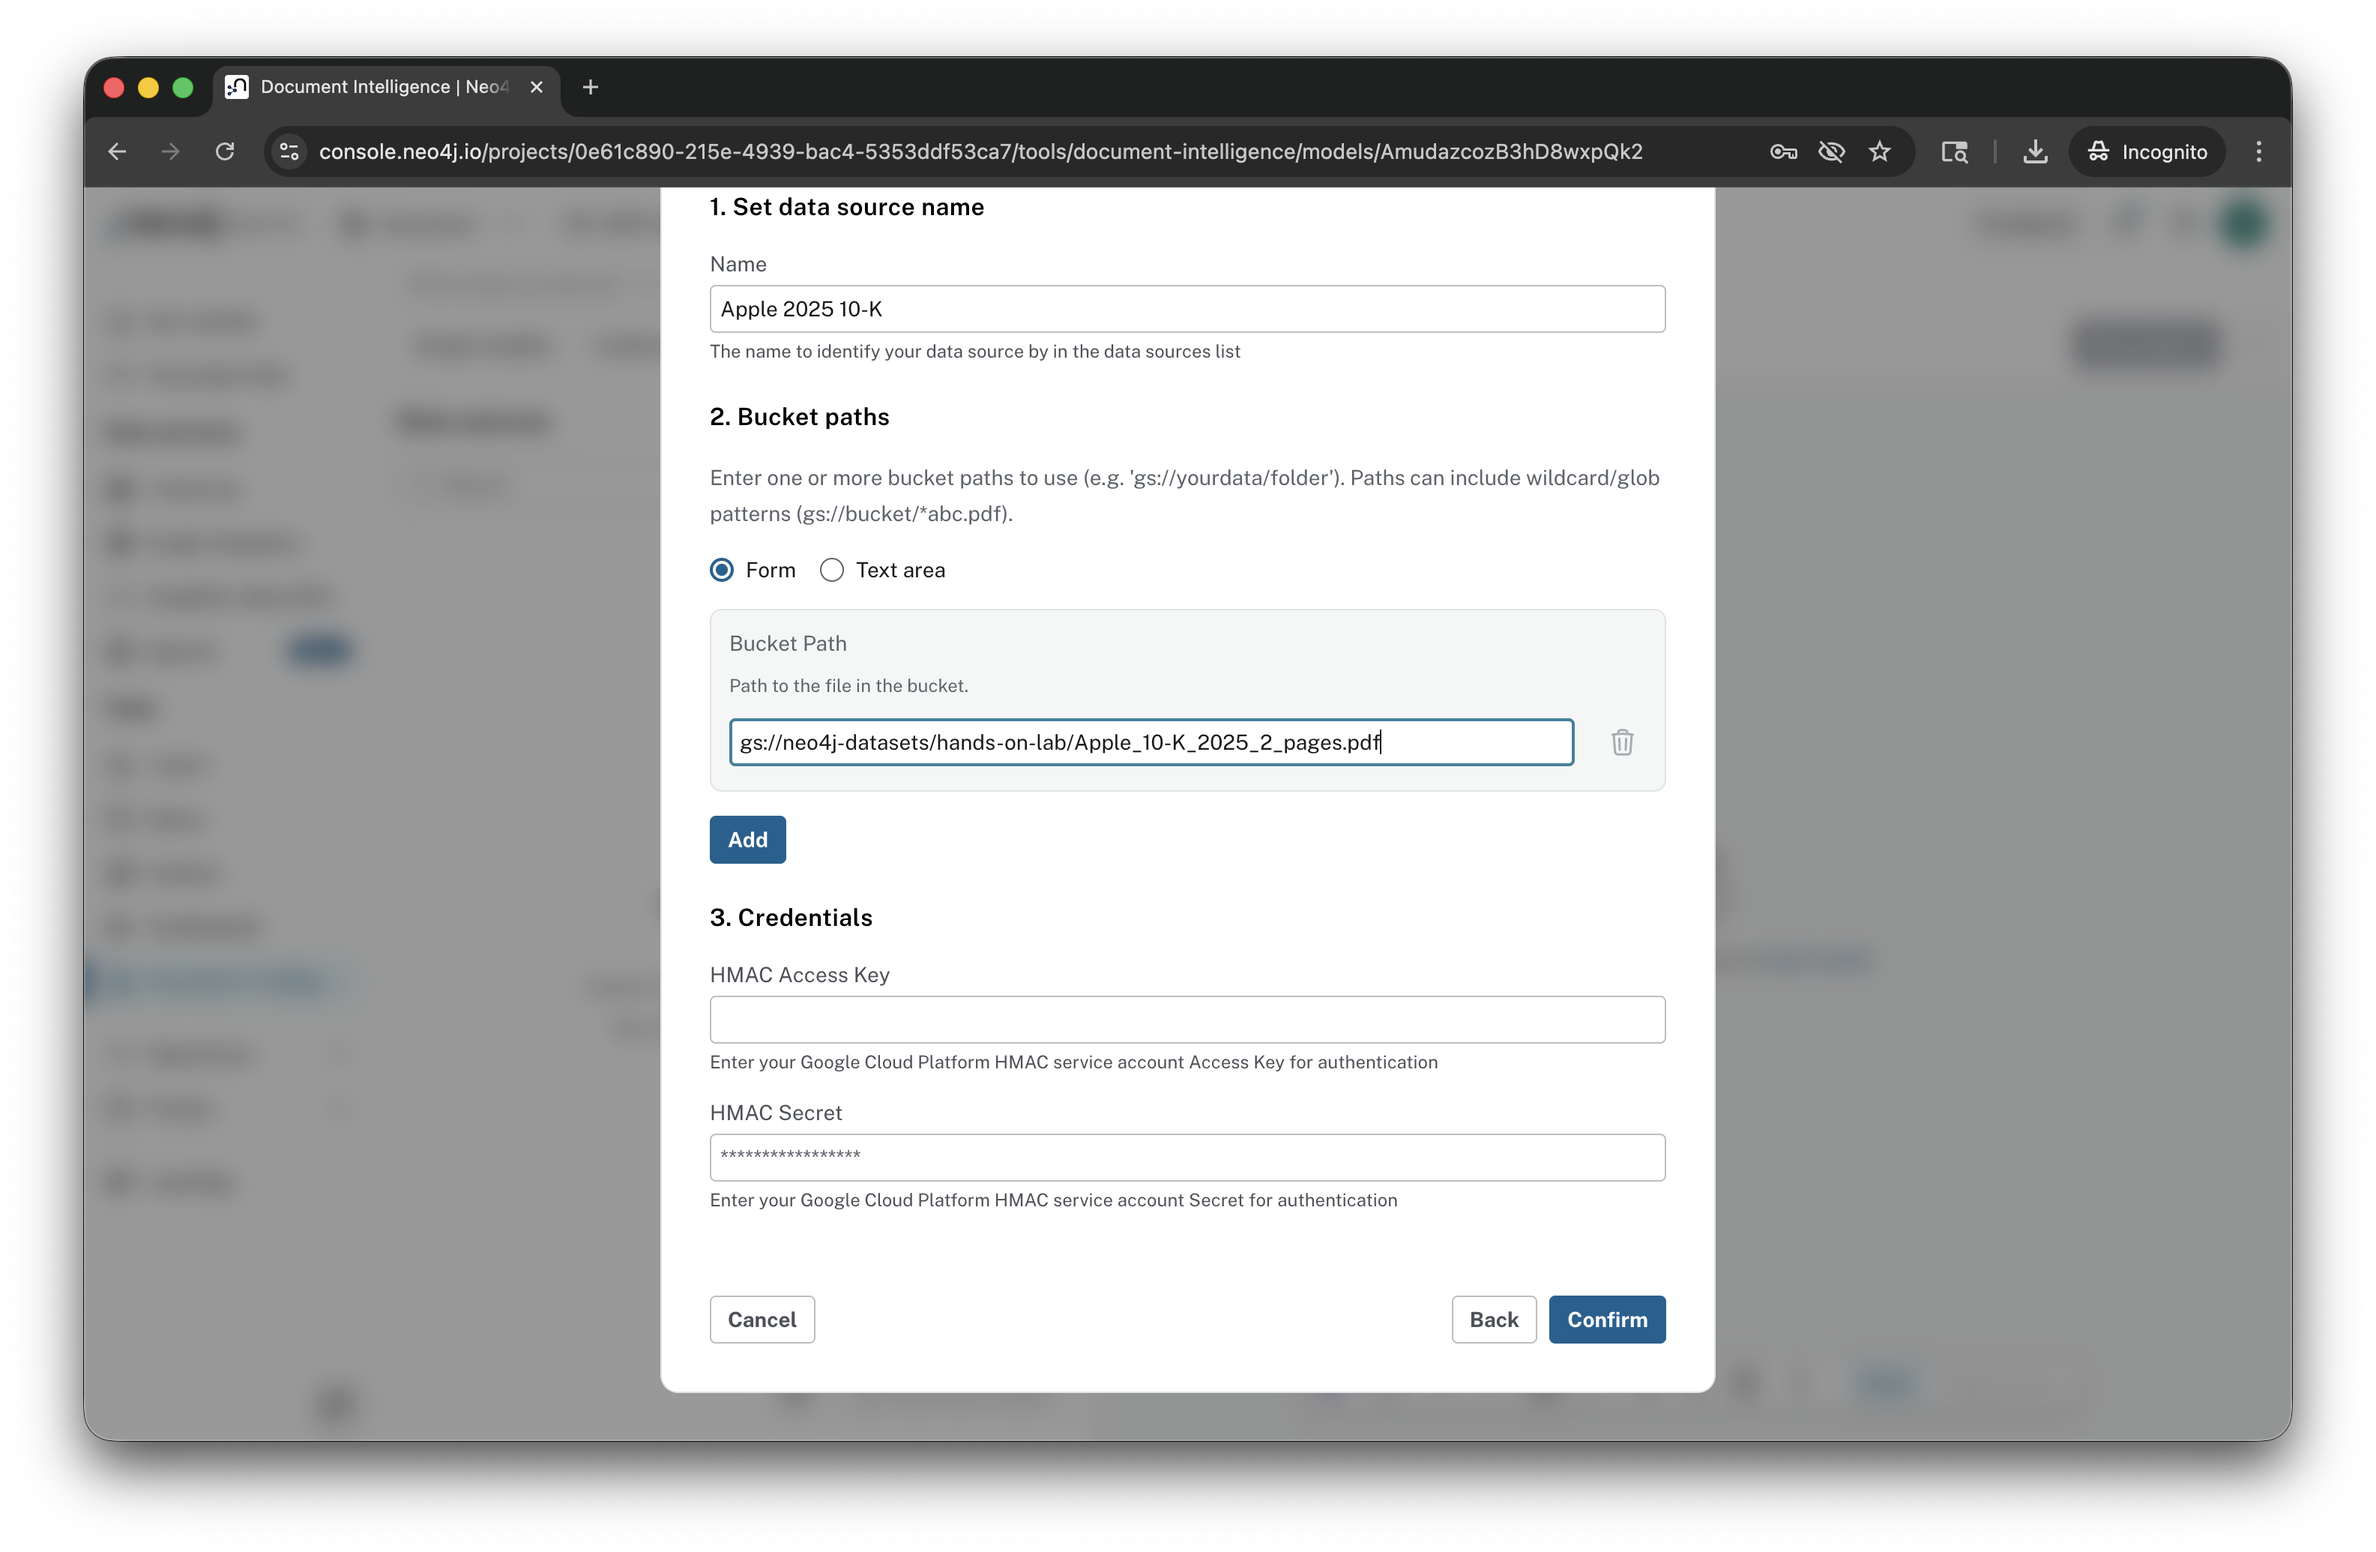
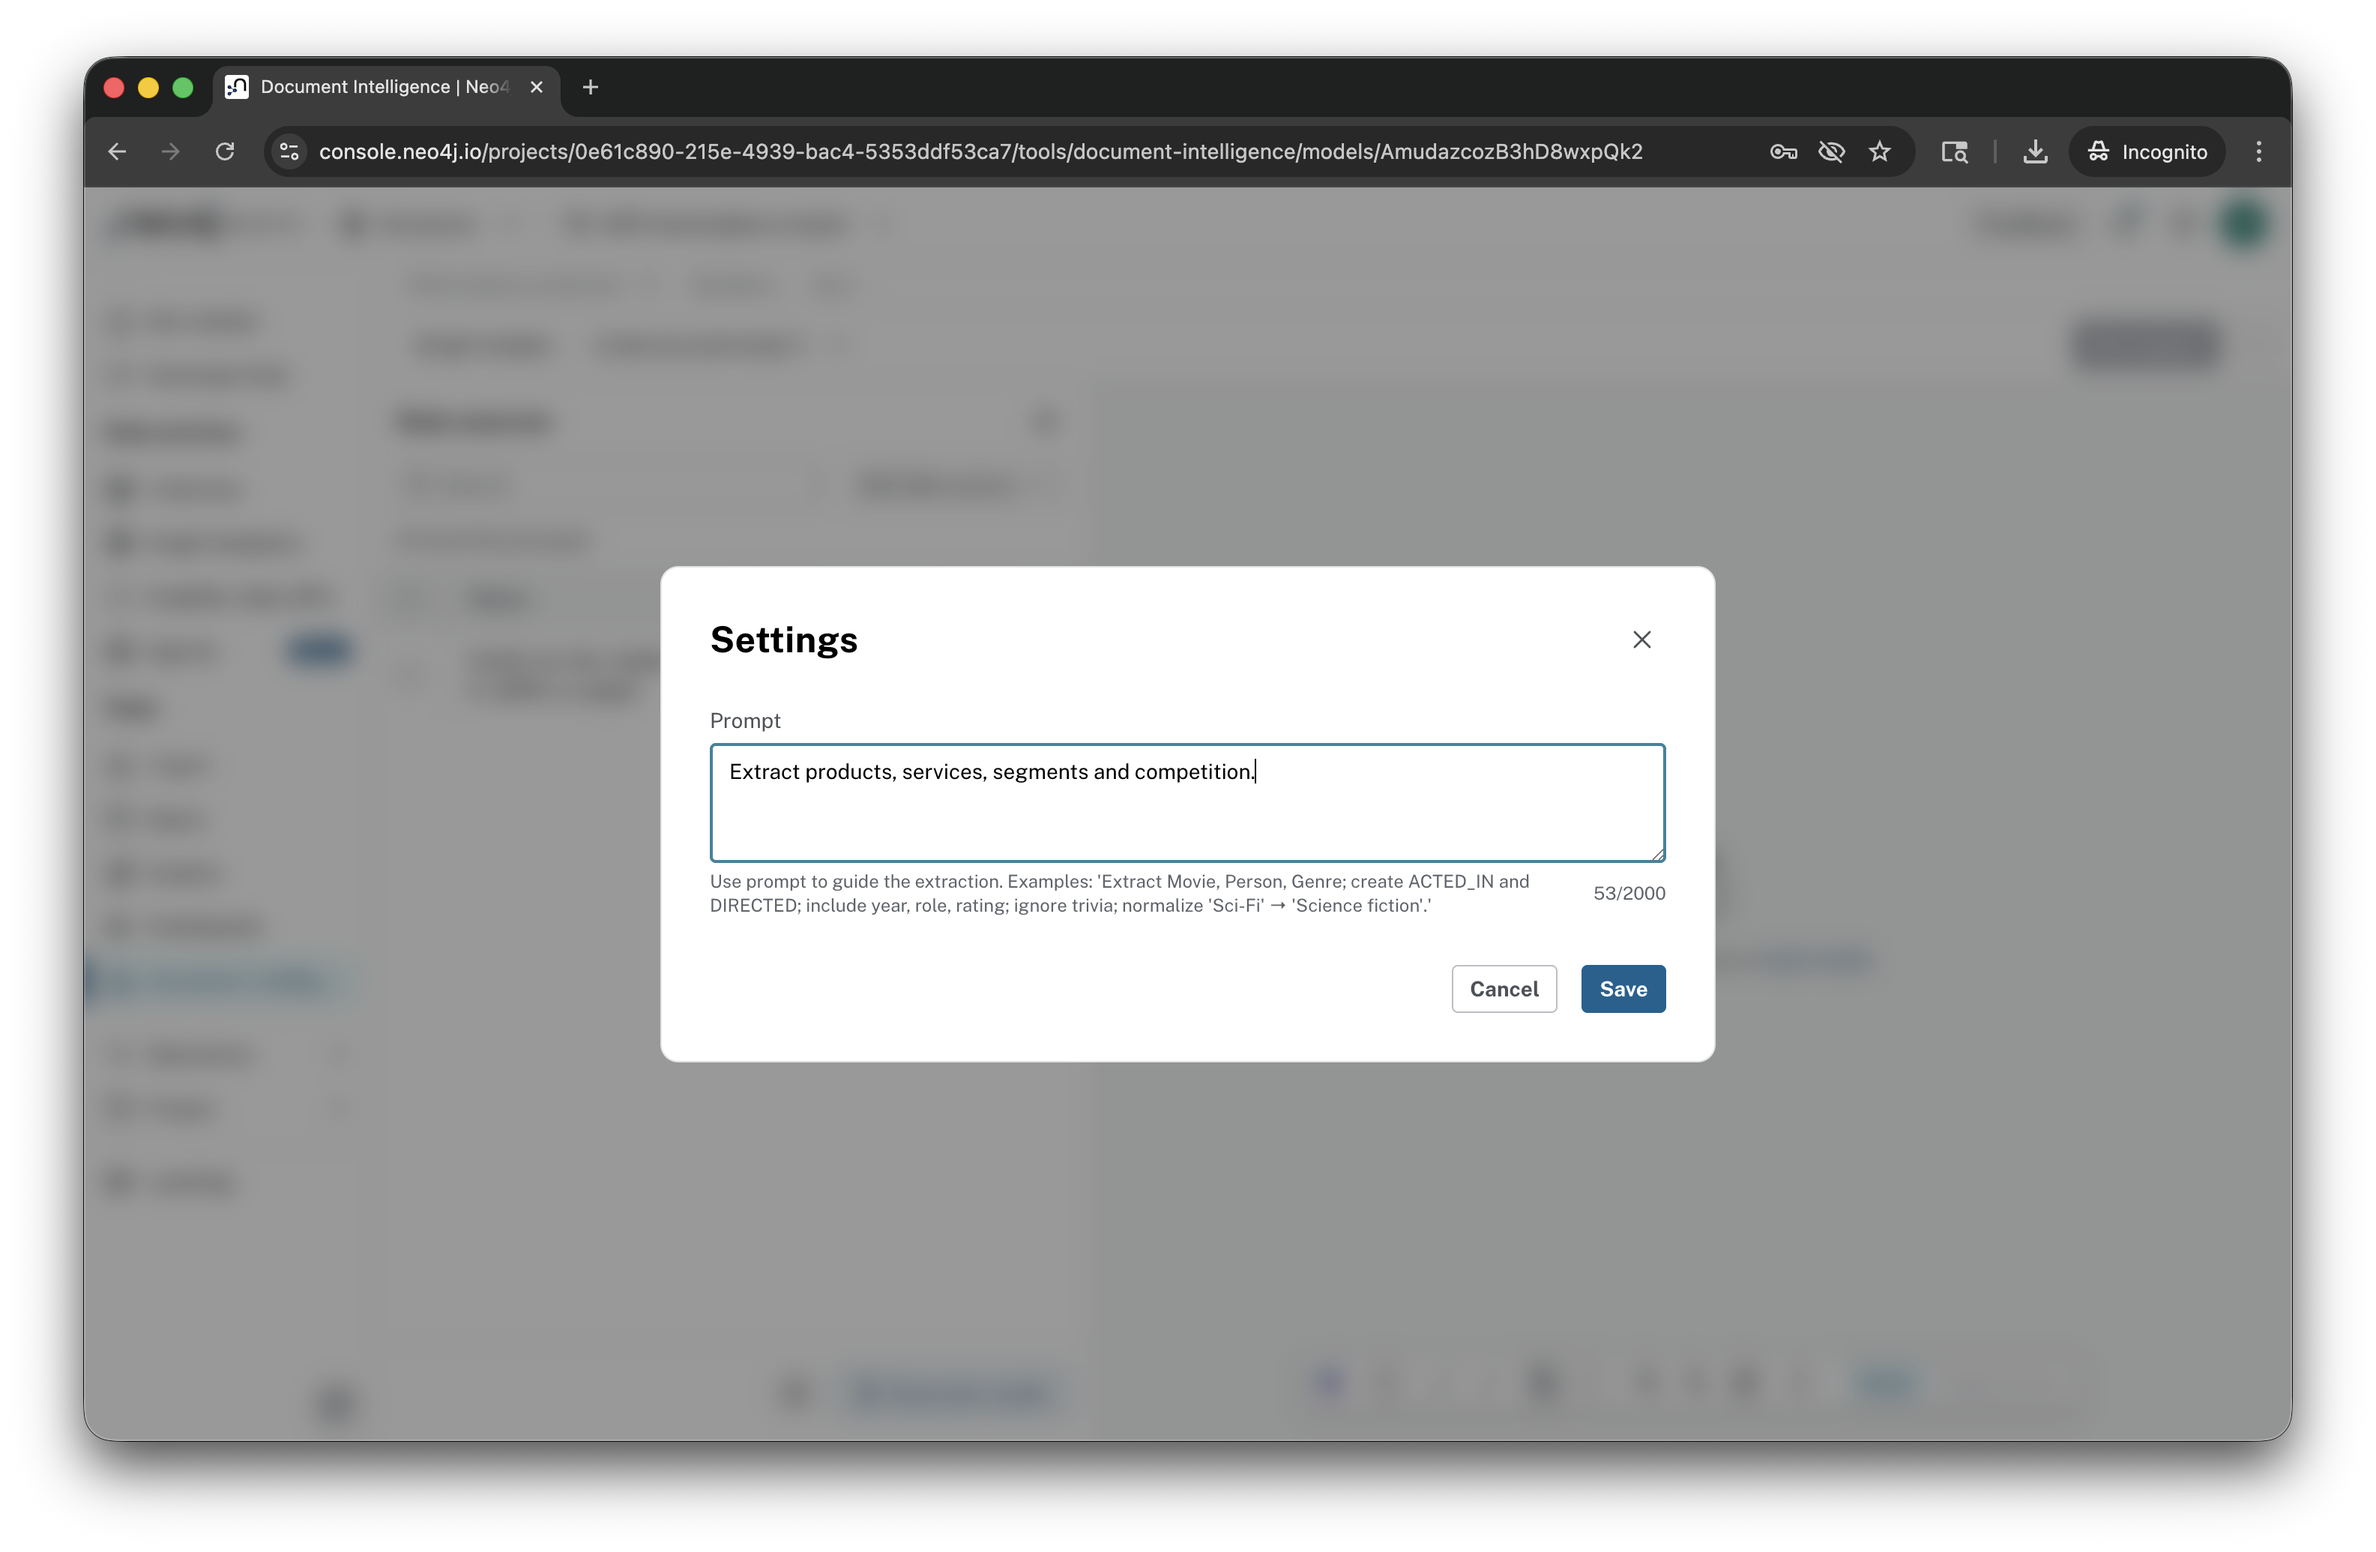
update Gemini slides

Changed region(s): [[0.2498, 0.1237, 0.7495, 0.371], [0.2498, 0.6184, 0.7495, 0.8966], [0.2811, 0.4019, 0.6871, 0.6493]]

diff --git a/README.md b/README.md
@@ -53,8 +53,10 @@ You'll need a laptop with a web browser.  Your browser will need to be able to a
 
 ### Assignment 3 - AI and Agents
 
-* Lecture - [Gemini Enterprise](https://docs.google.com/presentation/d/1BowFoowrk0pTVqdScC4weBFZJ-xMTdHbvMUCW4ZyP68/edit?usp=sharing) (15 min)
-  * What is Gemini Enterprise?
+* Lecture - [Gemini Enterprise Agent Platform](https://docs.google.com/presentation/d/1OfZyApCct7uIn6Vk2ugf1JkPhy4ncnQ2HYWZixyHx_4/edit?usp=sharing) (15 min)
+  * Gemini Enterprise
+  * Gemini Enterprise Agent Platform
+  * Gemini Enterprise App
 * Lecture - [Neo4j and AI](https://docs.google.com/presentation/d/1q4Kc9EcbSCNDraB1ROMBVnDy8pJV6QMWz1E7Oo-6vNw/edit?usp=sharing) (15 min)
   * Generating Knowledge Graphs
   * Retrieval Augmented Generation

diff --git a/Lab 6 - Document Intelligence/README.md b/Lab 6 - Document Intelligence/README.md
@@ -20,30 +20,28 @@ Click "Add data source."
 
 ![](images/03.png)
 
-Click "Google Cloud Storage."
+Click "Local files."
 
 ![](images/04.png)
 
-Enter the name of the data source as:
-
-    Apple 2025 10-K
+Select the file "hands-on-lab_Apple_10-K_2025_2_pages.pdf"
 
 ![](images/05.png)
 
-For the bucket path enter:
-
-    gs://neo4j-datasets/hands-on-lab/Apple_10-K_2025_2_pages.pdf
+Now click "Generate model."
 
 ![](images/06.png)
 
-Scroll to the bottom.
+For the promp enter:
+
+    Extract products, services, segments and competition.
 
 ![](images/07.png)
 
-Click "Confirm."
+Click "Save."
 
 ![](images/08.png)
 
-Failure - key required.
+The generator will run for a bit.
 
 ![](images/09.png)
